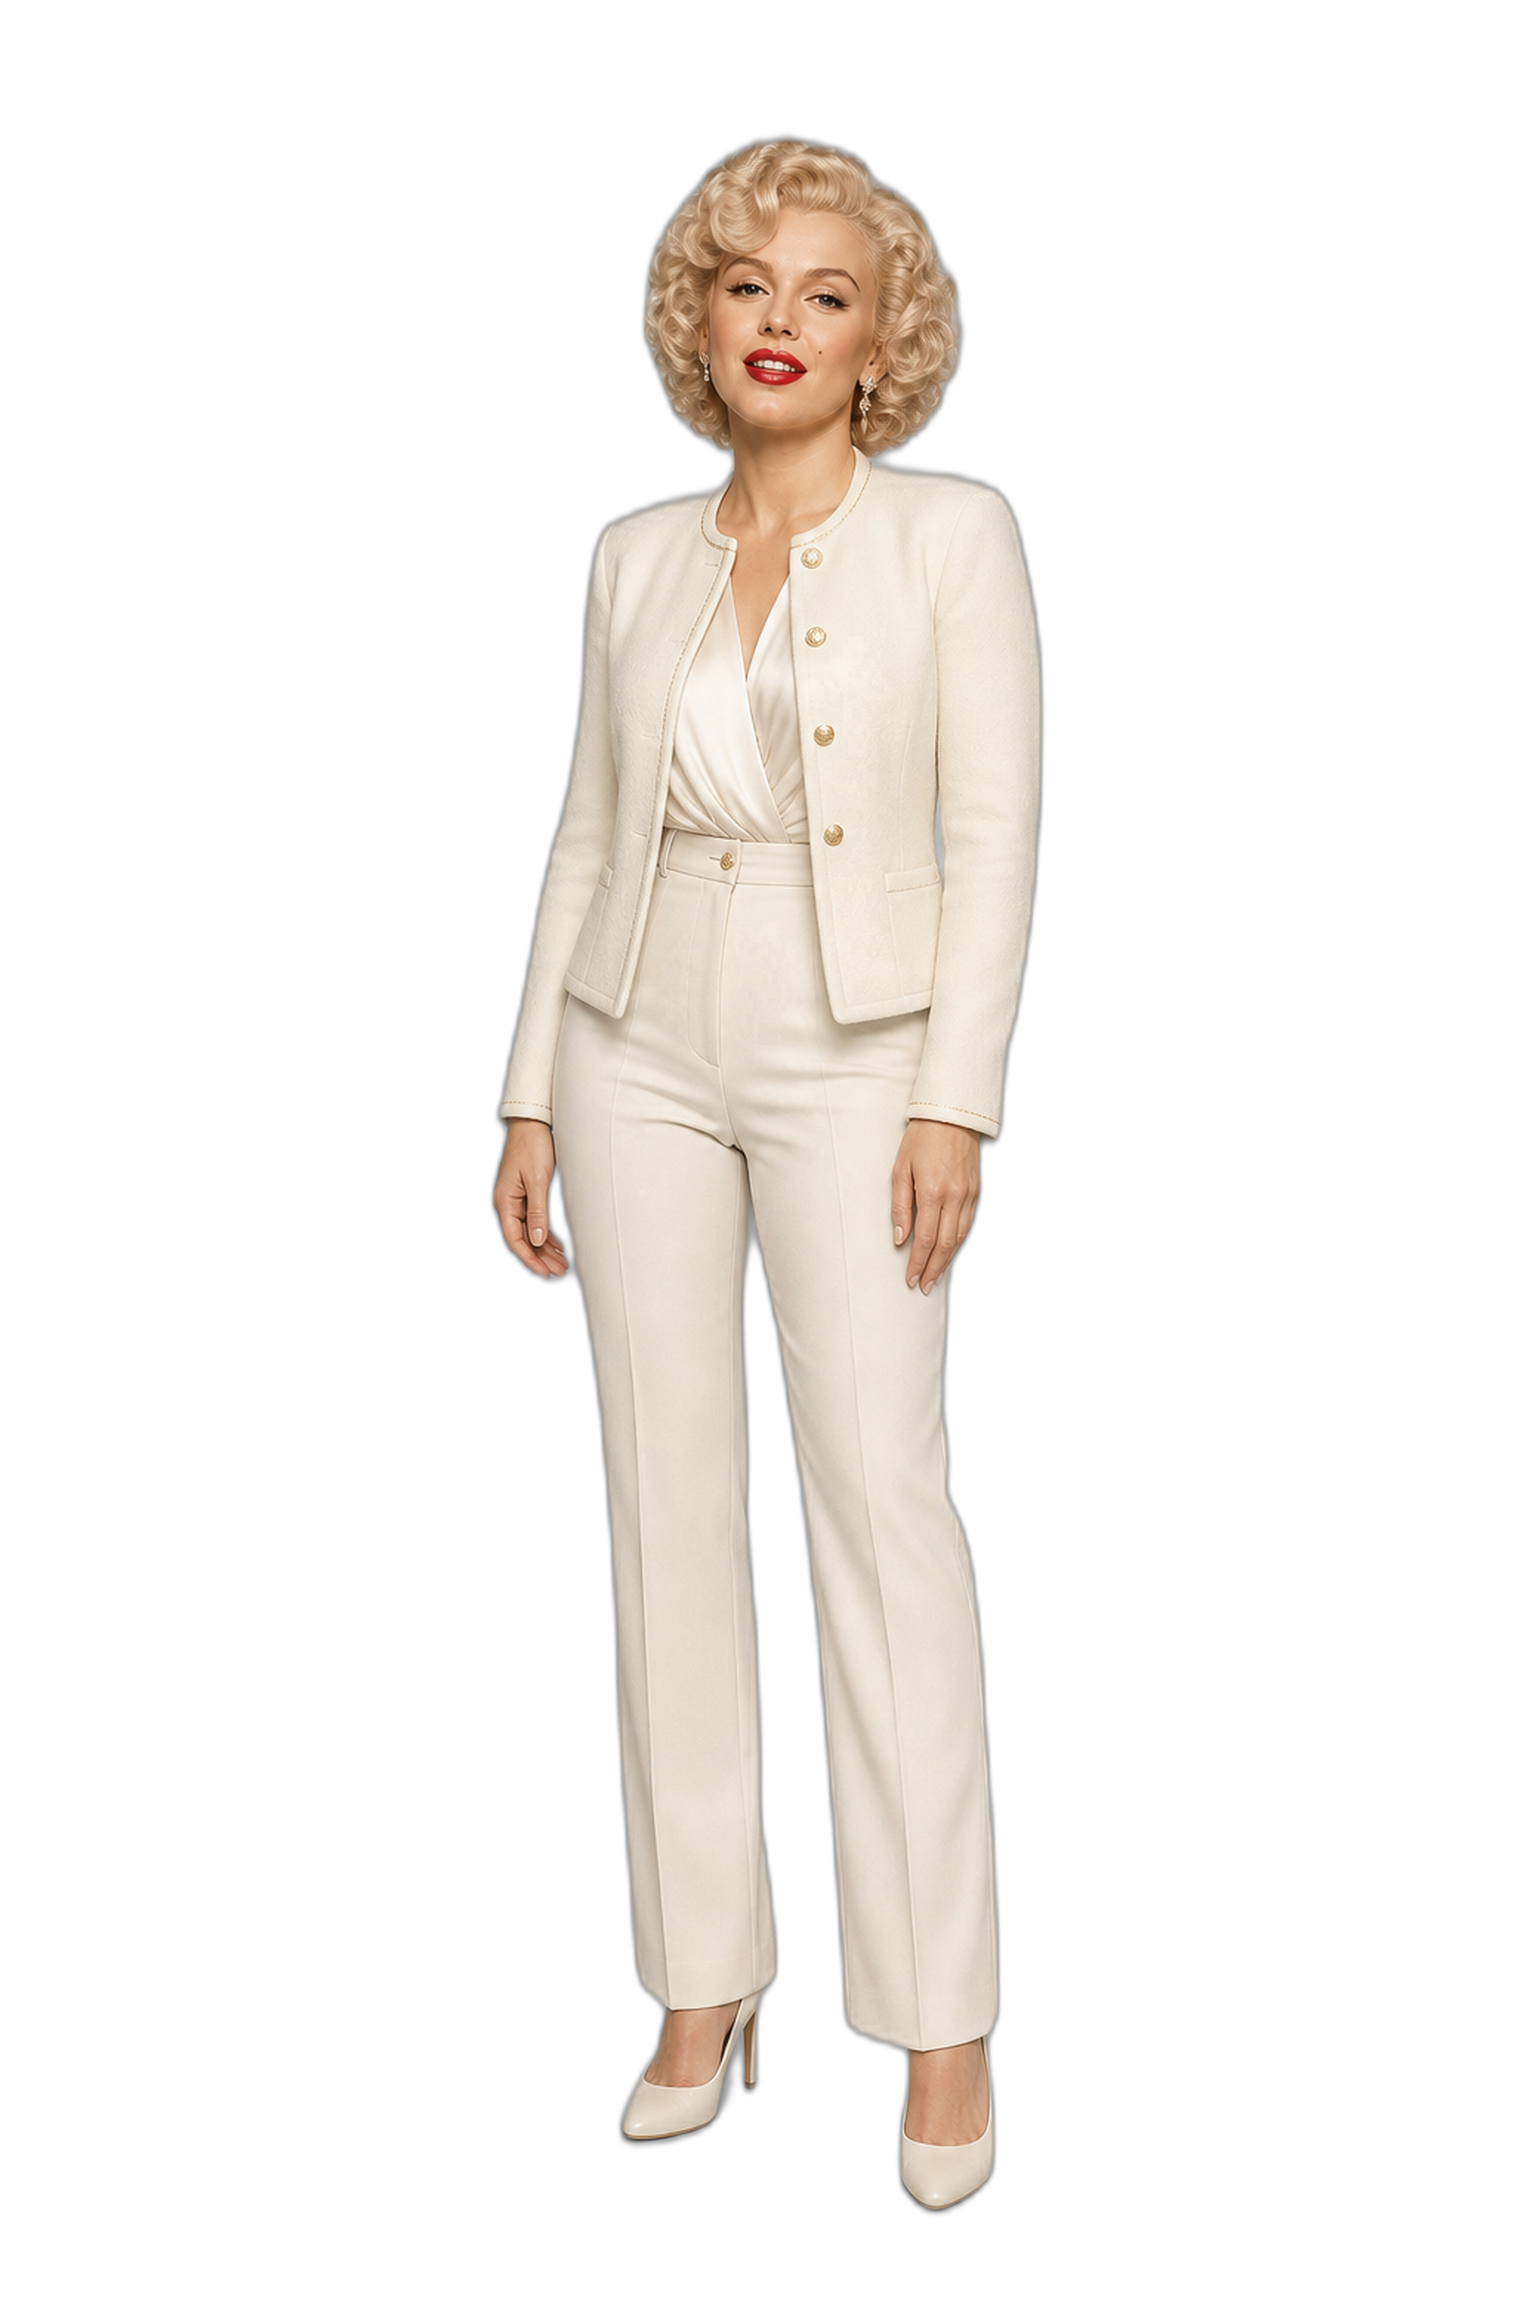
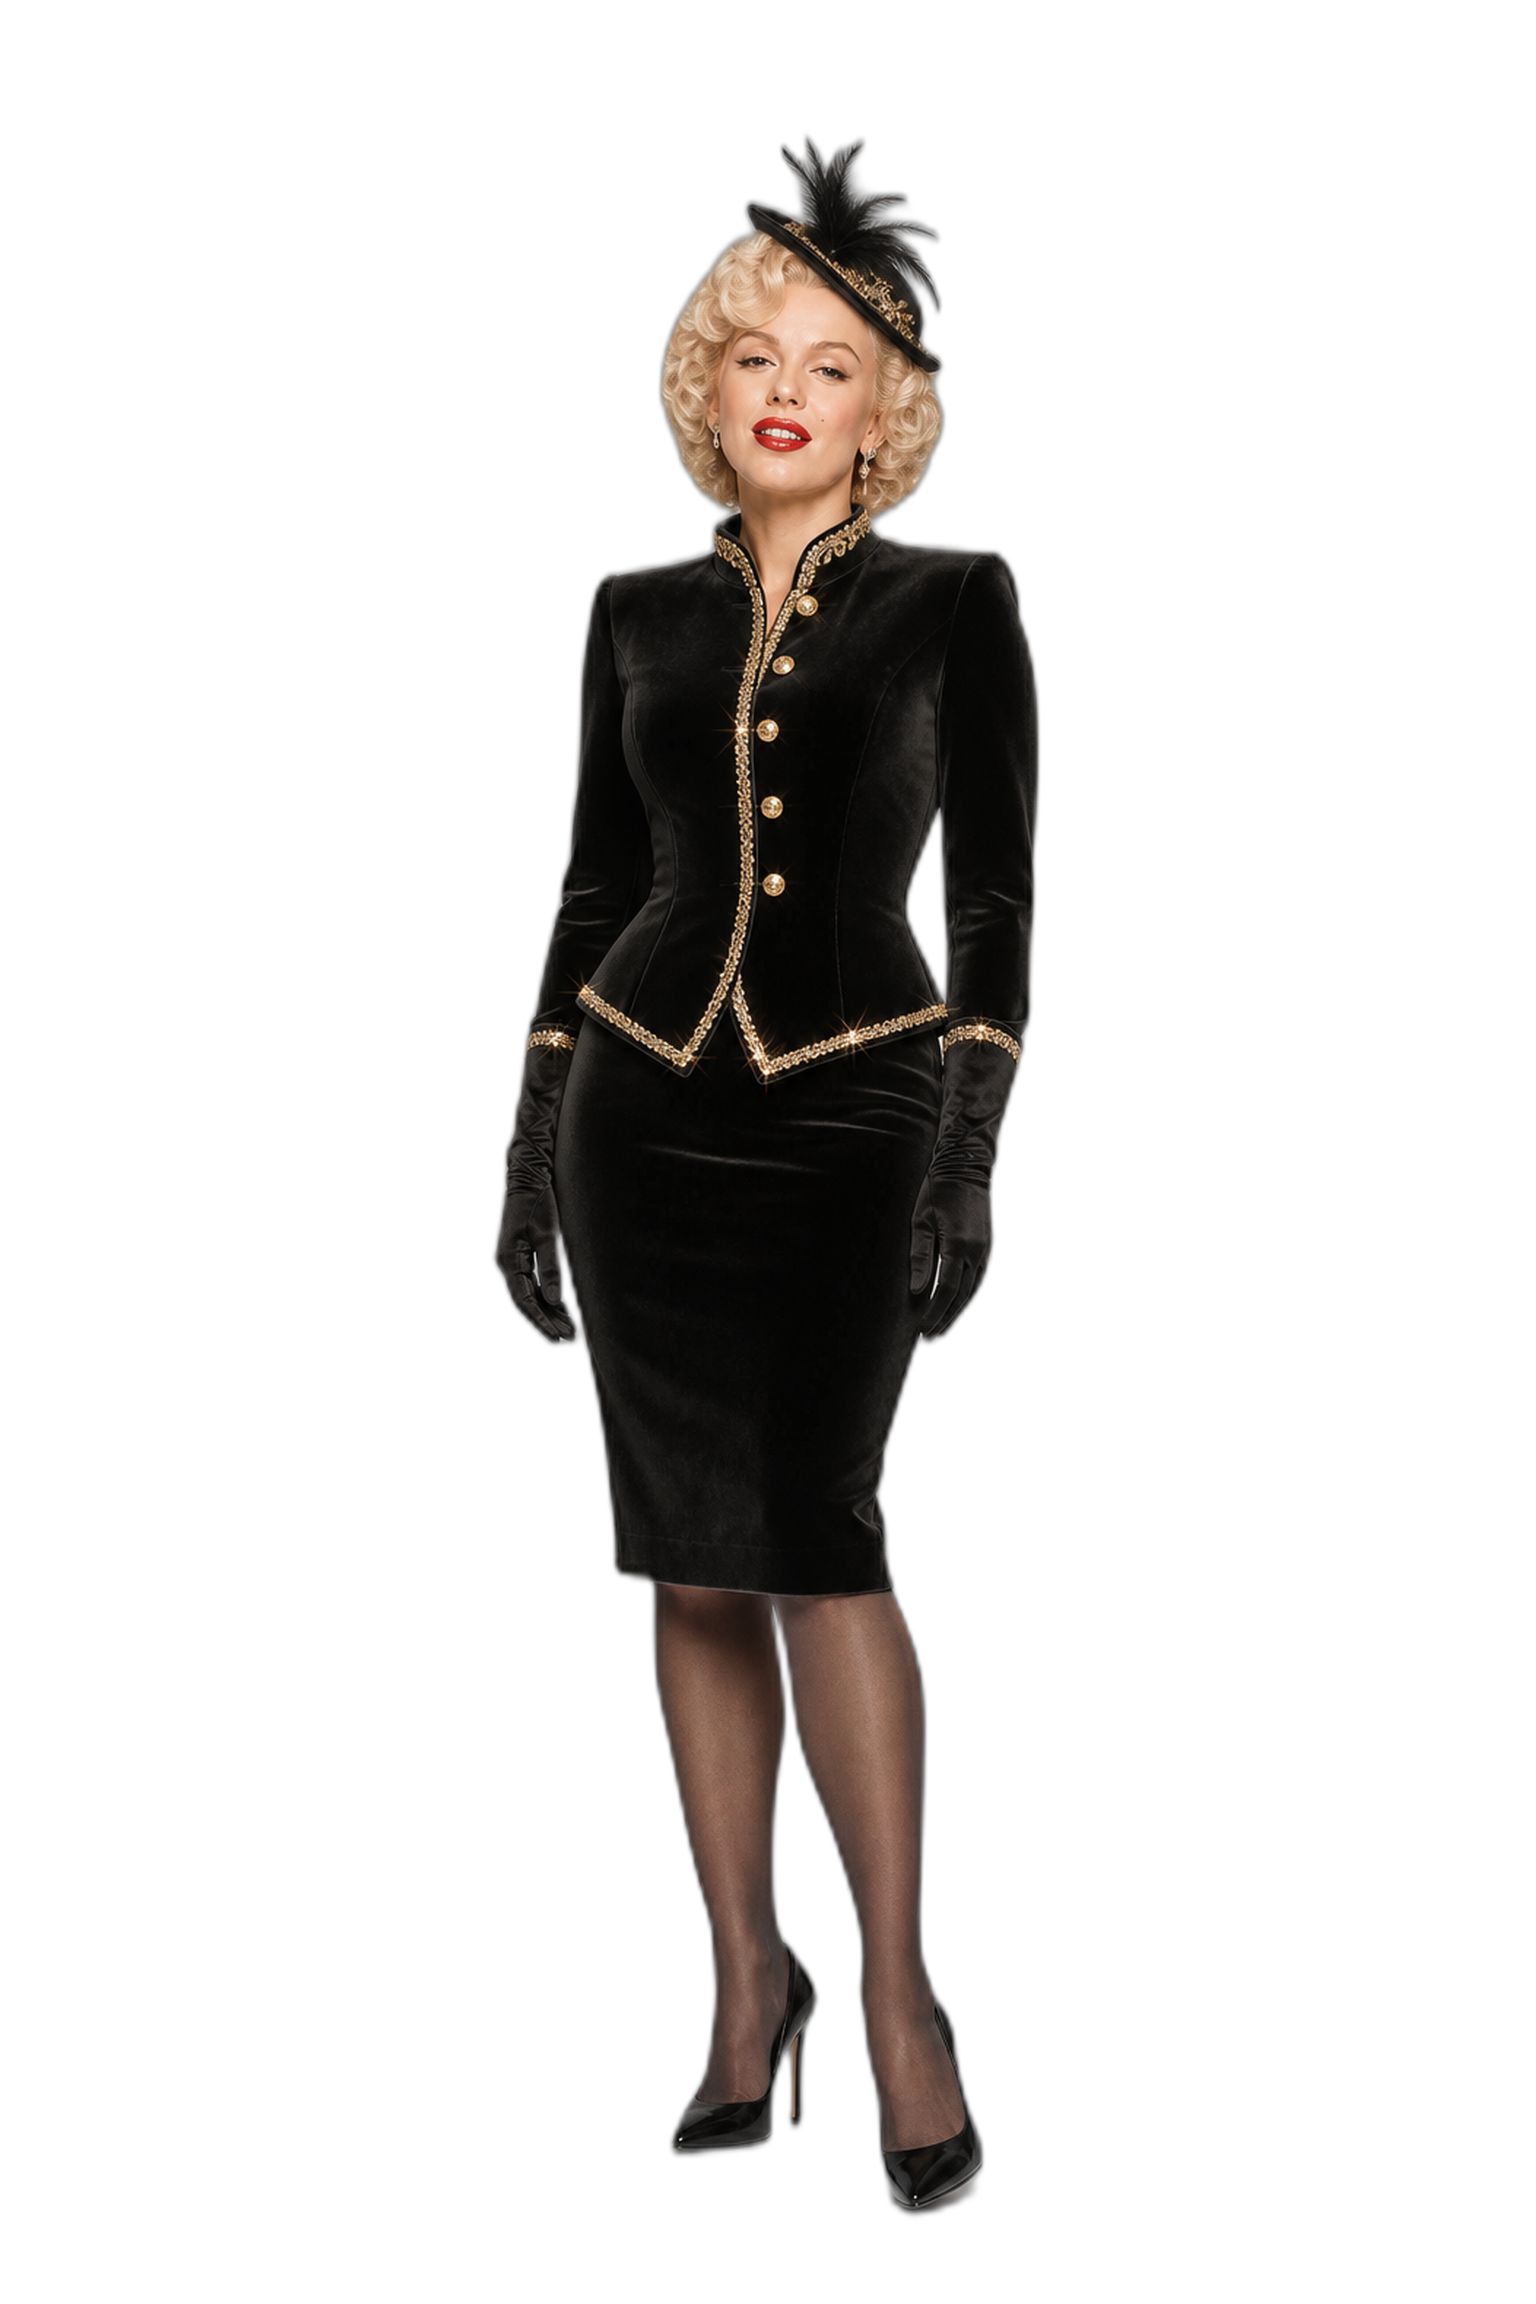
Rebuild muse as theatrical pin-up burlesque progression
Replace everyday outfits with a 1940s–50s cabaret wardrobe ladder
chained from Level 1 edits, exported as transparent sprites.

Changed region(s): [[0.3125, 0.0625, 0.6875, 0.9688]]

diff --git a/src/achievements/levelAchievements.ts b/src/achievements/levelAchievements.ts
@@ -11,88 +11,88 @@ export interface LevelAchievement {
 }
 
 /**
- * One achievement per level. Same locked pose; clothing only changes.
- * Sprites: public/muse/stage-XX.png
+ * Vintage pin-up / theatrical burlesque wardrobe ladder.
+ * Same locked pose; clothing only changes.
  */
 export const LEVEL_ACHIEVEMENTS: readonly LevelAchievement[] = [
   {
     level: 1,
     id: "level-1",
-    title: "Fully Dressed",
-    description: "Jacket, top, trousers, and heels.",
-    outfitLabel: "Jacket & trousers",
+    title: "Cabaret Entrance",
+    description: "Velvet jacket, pencil skirt, gloves, and fascinator.",
+    outfitLabel: "Velvet jacket & fascinator",
     imageSrc: "/muse/stage-01.png",
   },
   {
     level: 2,
     id: "level-2",
     title: "Jacket Off",
-    description: "Reach level 2 — jacket removed.",
-    outfitLabel: "Blouse & trousers",
+    description: "Jacket removed — glamorous satin top revealed.",
+    outfitLabel: "Satin top & gloves",
     imageSrc: "/muse/stage-02.png",
   },
   {
     level: 3,
     id: "level-3",
-    title: "Simplified",
-    description: "Reach level 3 — accessories cleared.",
-    outfitLabel: "Clean blouse look",
+    title: "Bare Hands",
+    description: "Fascinator and opera gloves removed.",
+    outfitLabel: "Satin top & pencil skirt",
     imageSrc: "/muse/stage-03.png",
   },
   {
     level: 4,
     id: "level-4",
-    title: "Top & Trousers",
-    description: "Reach level 4 — top and trousers.",
-    outfitLabel: "Top & trousers",
+    title: "Midnight Velvet",
+    description: "Structured black velvet cabaret silhouette.",
+    outfitLabel: "Black velvet stage look",
     imageSrc: "/muse/stage-04.png",
   },
   {
     level: 5,
     id: "level-5",
-    title: "Lighter Layer",
-    description: "Reach level 5 — lighter fitted top.",
-    outfitLabel: "Light top & trousers",
+    title: "Crimson Slit",
+    description: "Red satin skirt with gold trim takes the spotlight.",
+    outfitLabel: "Crimson satin skirt",
     imageSrc: "/muse/stage-05.png",
   },
   {
     level: 6,
     id: "level-6",
-    title: "Barefoot",
-    description: "Reach level 6 — shoes and outer layer gone.",
-    outfitLabel: "Top, trousers, barefoot",
+    title: "Gold Spotlight",
+    description: "Gold satin skirt and bare arms under the lights.",
+    outfitLabel: "Gold satin cabaret",
     imageSrc: "/muse/stage-06.png",
   },
   {
     level: 7,
     id: "level-7",
-    title: "Camisole & Shorts",
-    description: "Reach level 7 — camisole and shorts.",
-    outfitLabel: "Camisole & shorts",
+    title: "Ruby Gown",
+    description: "Deep red satin pin-up gown.",
+    outfitLabel: "Ruby satin gown",
     imageSrc: "/muse/stage-07.png",
   },
   {
     level: 8,
     id: "level-8",
-    title: "Sleepwear",
-    description: "Reach level 8 — soft sleepwear set.",
-    outfitLabel: "Sleepwear set",
+    title: "Noir Velvet",
+    description: "Black velvet with crimson accents.",
+    outfitLabel: "Black velvet & crimson",
     imageSrc: "/muse/stage-08.png",
   },
   {
     level: 9,
     id: "level-9",
-    title: "Partial Lace",
-    description: "Reach level 9 — coordinated partial coverage.",
-    outfitLabel: "Coordinated lingerie set",
+    title: "Ivory Lace",
+    description: "Ivory satin with black lace trim.",
+    outfitLabel: "Ivory lace satin",
     imageSrc: "/muse/stage-09.png",
   },
   {
     level: 10,
     id: "level-10",
-    title: "Lace Finale",
-    description: "Reach level 10 — elegant opaque lingerie.",
-    outfitLabel: "Elegant lingerie",
+    title: "Finale Noir",
+    description: "Final black velvet burlesque finale look.",
+    outfitLabel: "Black velvet finale",
     imageSrc: "/muse/stage-10.png",
   },
 ] as const;

diff --git a/src/components/StageMuse/StageMuse.tsx b/src/components/StageMuse/StageMuse.tsx
@@ -26,7 +26,7 @@ export function StageMuse({
   const stage = outfitStageForLevel(Math.max(1, level || 1));
   const achievement = achievementForLevel(stage);
   // Cache-bust when sprite pack updates
-  const src = `${museImageForLevel(stage)}?v=pose-lock-1`;
+  const src = `${museImageForLevel(stage)}?v=burlesque-1`;
 
   return (
     <figure

diff --git a/public/muse/README.md b/public/muse/README.md
@@ -1,16 +1,17 @@
-# Miss Melody level sprites
+# Miss Melody — theatrical pin-up progression
 
-10-level clothing progression. Same adult woman, locked pose.
+10-level vintage cabaret / pin-up wardrobe ladder.
+Same adult woman, locked pose. Transparent PNG sprites 1536×2304.
 
-Transparent PNG sprites at 1536×2304.
+Premium theatrical pin-up and burlesque costumes, not everyday clothing.
 
-1. Jacket, top, trousers, heels
-2. Jacket removed
-3. Accessories simplified
-4. Top & trousers
-5. Lighter fitted top
-6. Barefoot, outer layer off
-7. Camisole & shorts
-8. Sleepwear set
-9. Coordinated lingerie-style set
-10. Elegant opaque lingerie look
+1. Velvet jacket, pencil skirt, gloves, fascinator
+2. Jacket off — satin top & gloves
+3. Gloves & fascinator off
+4. Black velvet stage look
+5. Crimson satin skirt
+6. Gold satin cabaret
+7. Ruby satin gown
+8. Black velvet & crimson
+9. Ivory lace satin
+10. Black velvet finale
